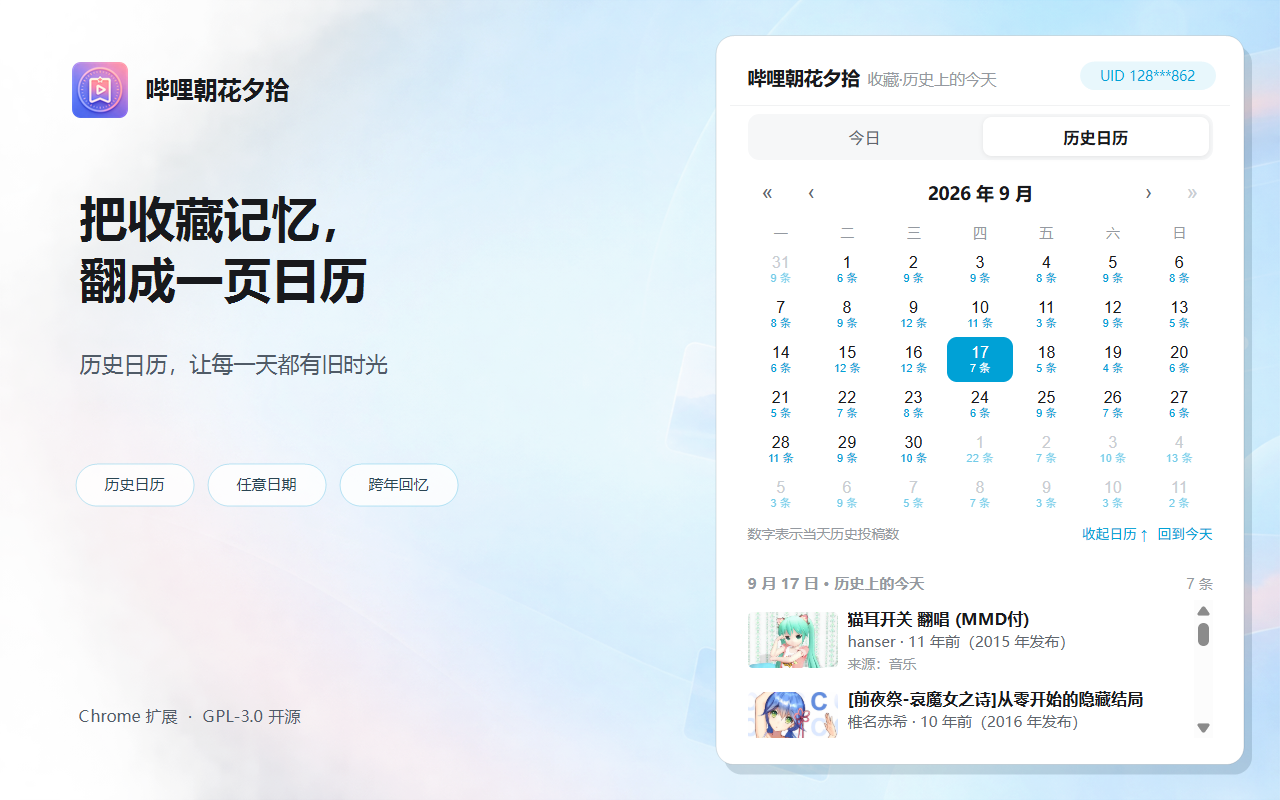
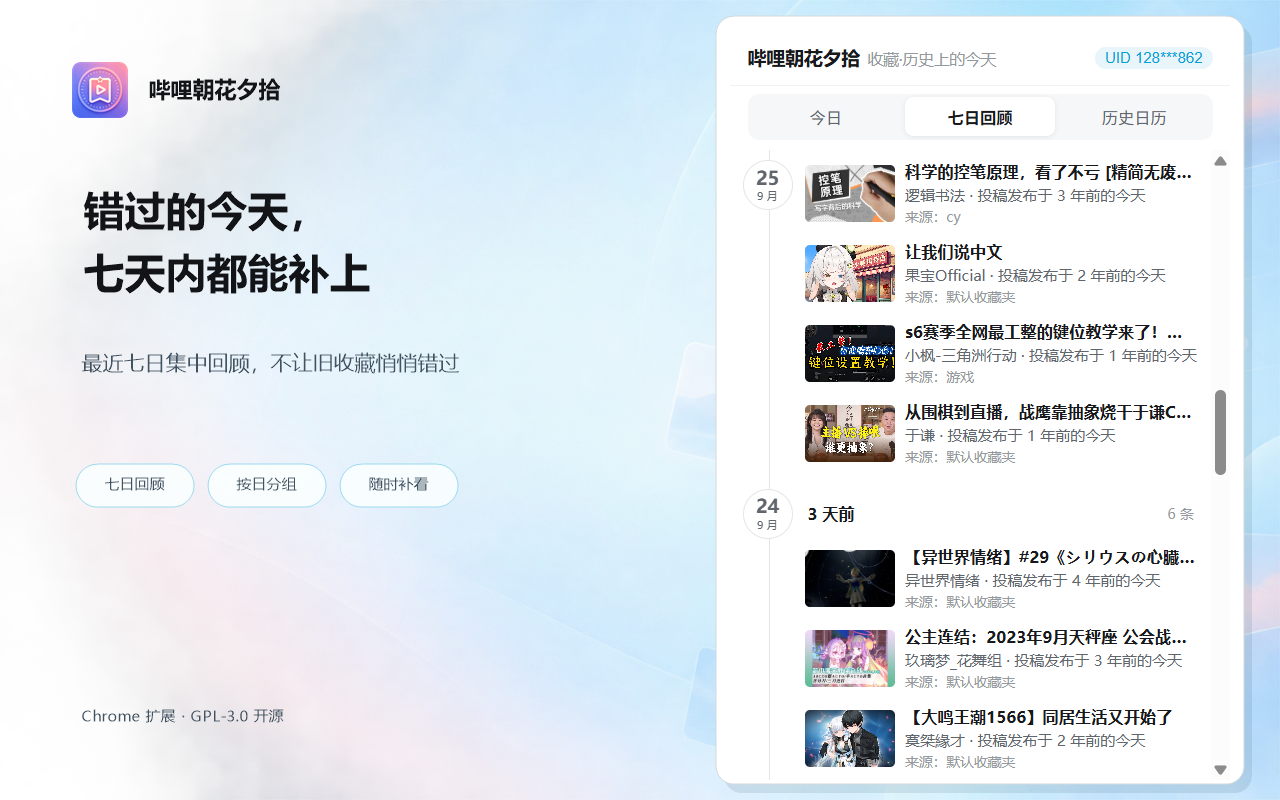
docs: 更新三页签宣传图

diff --git a/README.md b/README.md
@@ -14,7 +14,9 @@
 
 ![哔哩朝花夕拾 · 今日回顾](assets/screenshot-1.png)
 
-![哔哩朝花夕拾 · 历史日历](assets/screenshot-2.png)
+![哔哩朝花夕拾 · 七日回顾](assets/screenshot-2.png)
+
+![哔哩朝花夕拾 · 历史日历](assets/screenshot-3.png)
 
 > 非哔哩哔哩官方产品，与 B 站无任何关联；请遵守 B 站用户协议合理使用。
 > 本项目由 **DeepSeek（AI）与 OpenAI Codex 参与设计、实现与维护**，仅供学习交流参考。
@@ -24,6 +26,7 @@
 ## 功能特性
 
 - 📅 **历史上的今天**：打开 B 站首页时，浮层提示“投稿发布于 X 年前的今天”的历史投稿
+- 🕐 **七日回顾**：集中查看最近七天错过的历史投稿，并按日期分组补看
 - 🗓 **历史日历**：在扩展 Popup 按年月浏览有历史投稿的日期，点击某天查看完整投稿列表；可将月历折叠为选中日期所在的一周，腾出更多明细空间
 - ⏱ **稍后再看**：在投稿封面右上角使用 B 站官方接口添加或移出稍后再看；时钟与对勾图标分别表示两种状态
 - 📚 **收藏夹管理**：读取“我创建的 + 我收藏(追更)的”全部收藏夹，按来源分组、可折叠、可勾选
@@ -54,7 +57,7 @@
 
 - **首次**：首页浮层出现“自选收藏夹”向导（我创建的 / 追更的分组）→ 勾选后开始全量
 - **日常**：扩展图标 Popup 点「增量同步」即可（几乎零请求的差异检测）
-- **回顾**：Popup 切换到「历史日历」，用年月导航查看任意过往年份中的历史投稿
+- **回顾**：Popup 可切换到「七日回顾」补看最近七天，或进入「历史日历」按年月查看任意日期的历史投稿
 - **稍后再看**：鼠标悬浮封面后，点击右上角的时钟图标添加；已加入时显示对勾，再次点击即可移出；没有可用的 B 站标签时会自动打开首页并继续操作
 - **范围**：增量/全量按钮旁可选 全部 / 仅我创建的 / 仅追更的
 - **高级设置**（设置页最底部折叠区）：412 冷却、每段页数、配额暂停时长、模拟首页日期、清空数据
@@ -65,7 +68,7 @@
 ```
 extension/          # 扩展本体（manifest / common / background / content / popup / options / icons）
 tools/              # 公共工具自检 selftest.js；同步状态机自检 background-selftest.js
-assets/             # 图标源图与宣传截图（logo.png、screenshot-1.png、screenshot-2.png）
+assets/             # 图标源图与宣传截图（logo.png、screenshot-1.png、screenshot-2.png、screenshot-3.png）
 ```
 
 ## 开发与自检
